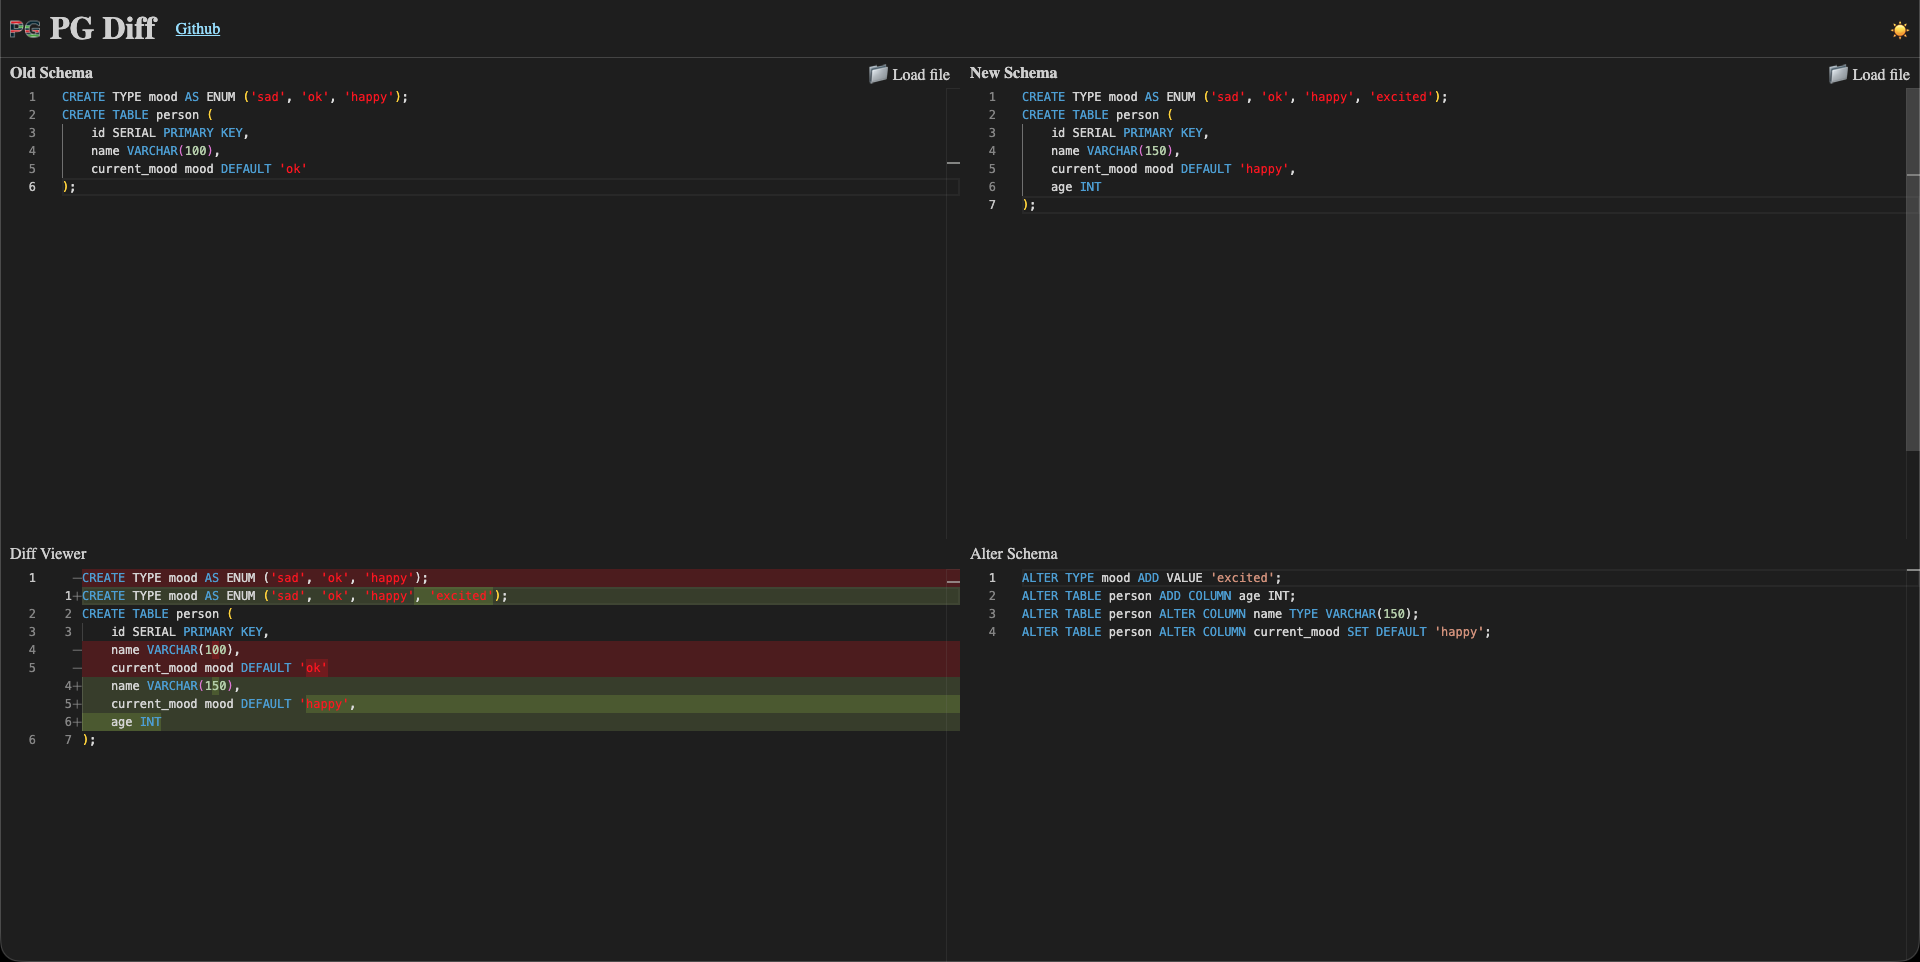
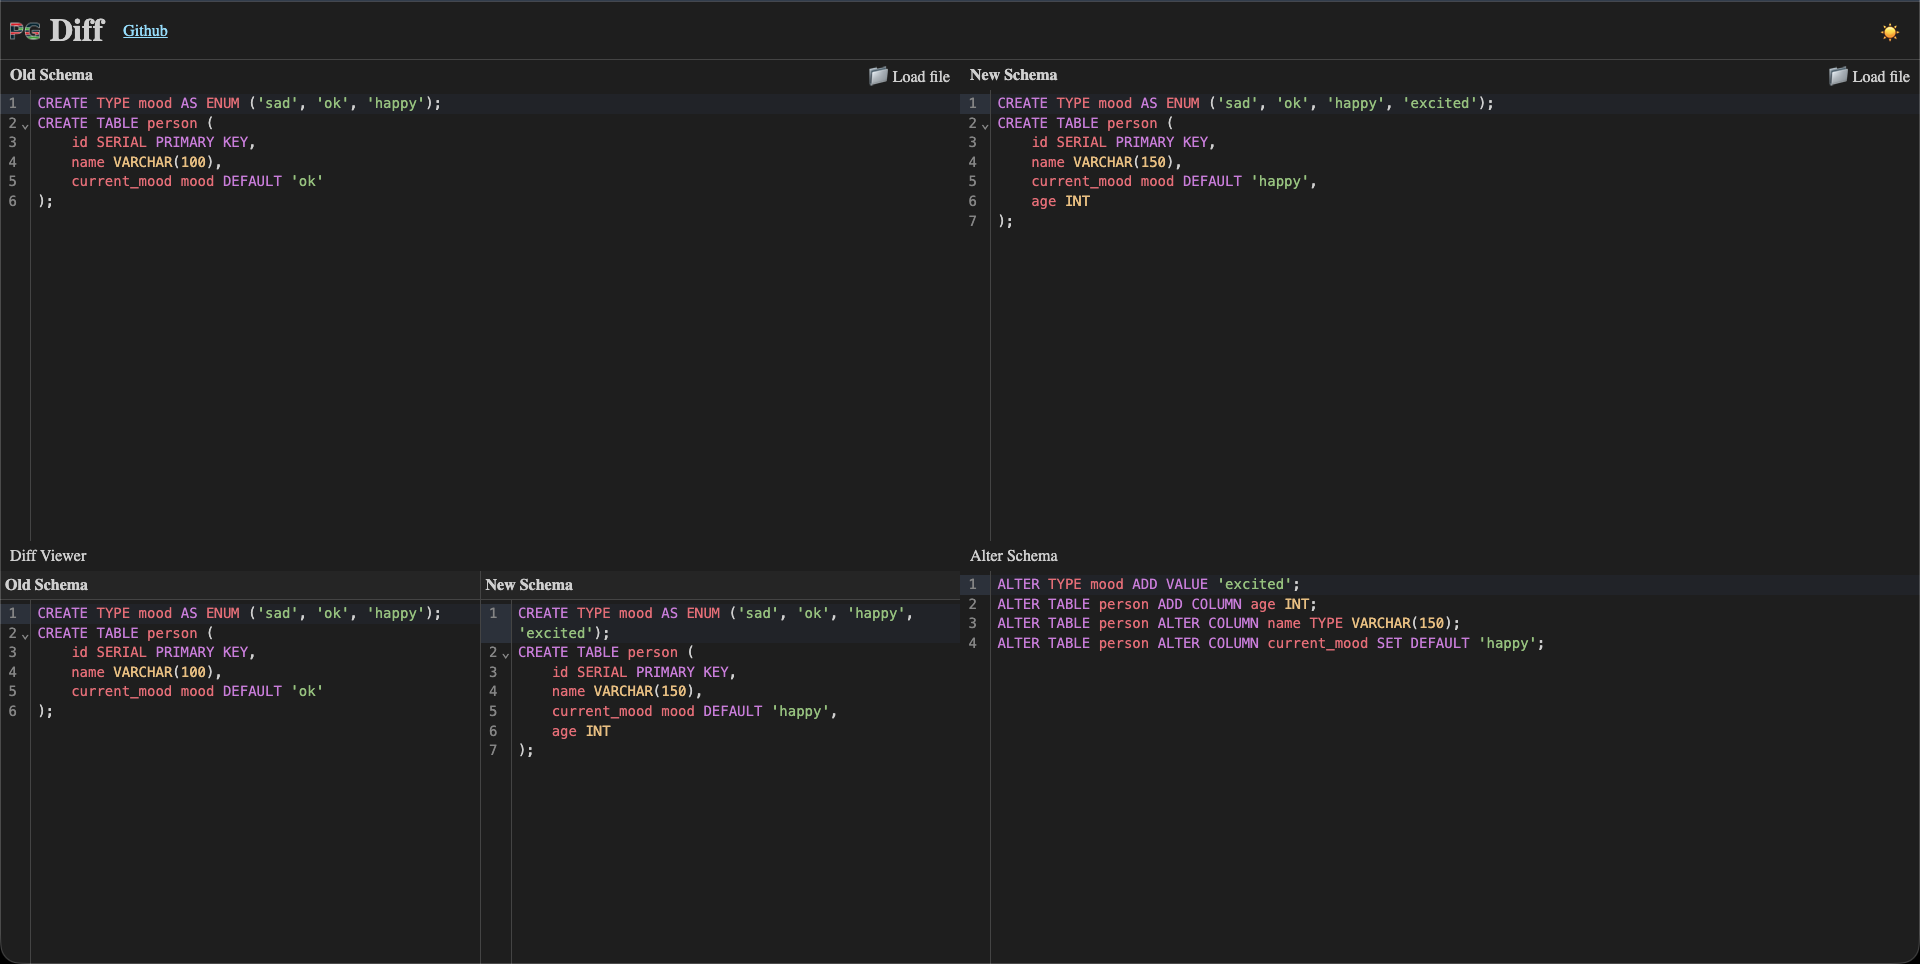
Updated diff viewer

diff --git a/editor.js b/editor.js
@@ -2,6 +2,7 @@ import { EditorView, basicSetup } from 'codemirror';
 import { sql } from '@codemirror/lang-sql';
 import { oneDark } from '@codemirror/theme-one-dark';
 import { ViewPlugin, Decoration } from '@codemirror/view';
+import { MergeView } from '@codemirror/merge';
 
 const exampleOld = `CREATE TYPE mood AS ENUM ('sad', 'ok', 'happy');
 CREATE TABLE person (
@@ -31,6 +32,11 @@ if (savedTheme !== null) {
 }
 
 theme.checked = isDark;
+
+// Sync checkbox with the dark-mode class that was set earlier
+if (isDark && !document.documentElement.classList.contains('dark-mode')) {
+  document.documentElement.classList.add('dark-mode');
+}
 
 // Line decoration for ERROR and CAUTION lines
 const lineDecorations = ViewPlugin.fromClass(class {
@@ -125,44 +131,32 @@ const alterEditor = createEditor(
   true
 );
 
-// Simple diff viewer - just show both schemas side by side
+// Create diff viewer using MergeView
 const diffContainer = document.getElementById('diffViewer');
-const diffBorderColor = isDark ? '#444' : '#ccc';
-const diffBgColor = isDark ? '#252525' : '#f0f0f0';
-const diffTextColor = isDark ? '#cfcfcf' : '#000';
+const extensions = [basicSetup, sql(), EditorView.lineWrapping];
+if (isDark) {
+  extensions.push(oneDark);
+}
 
-diffContainer.innerHTML = `
-  <div style="display: flex; height: 100%; overflow: auto;">
-    <div style="flex: 1; overflow: auto; border-right: 1px solid ${diffBorderColor};">
-      <div class="diff-title" style="padding: 5px; background: ${diffBgColor}; color: ${diffTextColor}; font-weight: bold; border-bottom: 1px solid ${diffBorderColor};">Old Schema</div>
-      <div id="diffOld" style="height: calc(100% - 30px);"></div>
-    </div>
-    <div style="flex: 1; overflow: auto;">
-      <div class="diff-title" style="padding: 5px; background: ${diffBgColor}; color: ${diffTextColor}; font-weight: bold; border-bottom: 1px solid ${diffBorderColor};">New Schema</div>
-      <div id="diffNew" style="height: calc(100% - 30px);"></div>
-    </div>
-  </div>
-`;
-
-const diffOldEditor = createEditor(
-  document.getElementById('diffOld'),
-  localStorage.getItem('oldSchema') || exampleOld,
-  true
-);
-
-const diffNewEditor = createEditor(
-  document.getElementById('diffNew'),
-  localStorage.getItem('newSchema') || exampleNew,
-  true
-);
+const mergeView = new MergeView({
+  a: {
+    doc: localStorage.getItem('oldSchema') || exampleOld,
+    extensions
+  },
+  b: {
+    doc: localStorage.getItem('newSchema') || exampleNew,
+    extensions
+  },
+  parent: diffContainer
+});
 
 // Update listeners
 oldEditor.dom.addEventListener('input', () => {
   const value = oldEditor.state.doc.toString();
   localStorage.setItem('oldSchema', value);
   updateAlterSchema(oldEditor, newEditor, alterEditor);
-  diffOldEditor.dispatch({
-    changes: { from: 0, to: diffOldEditor.state.doc.length, insert: value }
+  mergeView.a.dispatch({
+    changes: { from: 0, to: mergeView.a.state.doc.length, insert: value }
   });
 });
 
@@ -170,8 +164,8 @@ newEditor.dom.addEventListener('input', () => {
   const value = newEditor.state.doc.toString();
   localStorage.setItem('newSchema', value);
   updateAlterSchema(oldEditor, newEditor, alterEditor);
-  diffNewEditor.dispatch({
-    changes: { from: 0, to: diffNewEditor.state.doc.length, insert: value }
+  mergeView.b.dispatch({
+    changes: { from: 0, to: mergeView.b.state.doc.length, insert: value }
   });
 });
 
@@ -186,8 +180,8 @@ document.getElementById('oldSchemaFileInput').addEventListener('change', (event)
     });
     localStorage.setItem('oldSchema', content);
     updateAlterSchema(oldEditor, newEditor, alterEditor);
-    diffOldEditor.dispatch({
-      changes: { from: 0, to: diffOldEditor.state.doc.length, insert: content }
+    mergeView.a.dispatch({
+      changes: { from: 0, to: mergeView.a.state.doc.length, insert: content }
     });
   };
   reader.readAsText(file);
@@ -203,8 +197,8 @@ document.getElementById('newSchemaFileInput').addEventListener('change', (event)
     });
     localStorage.setItem('newSchema', content);
     updateAlterSchema(oldEditor, newEditor, alterEditor);
-    diffNewEditor.dispatch({
-      changes: { from: 0, to: diffNewEditor.state.doc.length, insert: content }
+    mergeView.b.dispatch({
+      changes: { from: 0, to: mergeView.b.state.doc.length, insert: content }
     });
   };
   reader.readAsText(file);
@@ -214,6 +208,14 @@ document.getElementById('newSchemaFileInput').addEventListener('change', (event)
 window.toggleTheme = function () {
   const isDark = theme.checked;
   localStorage.setItem('theme', isDark ? 'dark' : 'light');
+
+  // Toggle dark-mode class
+  if (isDark) {
+    document.documentElement.classList.add('dark-mode');
+  } else {
+    document.documentElement.classList.remove('dark-mode');
+  }
+
   // Reload to apply theme (CodeMirror theme needs to be set at initialization)
   location.reload();
 };

diff --git a/index.html b/index.html
@@ -41,6 +41,20 @@
 
   <!-- Favicon -->
   <link rel="shortcut icon" href="favicon.ico" type="image/x-icon">
+
+  <!-- Prevent flash by setting theme immediately -->
+  <script>
+    // Check theme preference before any rendering
+    const savedTheme = localStorage.getItem('theme');
+    const isDark = savedTheme !== null
+      ? savedTheme === 'dark'
+      : window.matchMedia && window.matchMedia('(prefers-color-scheme: dark)').matches;
+
+    if (isDark) {
+      document.documentElement.classList.add('dark-mode');
+    }
+  </script>
+
   <script type="importmap">
     {
       "imports": {
@@ -48,7 +62,8 @@
         "@codemirror/lang-sql": "https://esm.sh/@codemirror/lang-sql@6.8.0",
         "@codemirror/theme-one-dark": "https://esm.sh/@codemirror/theme-one-dark@6.1.2",
         "@codemirror/view": "https://esm.sh/@codemirror/view@6.34.3",
-        "@codemirror/state": "https://esm.sh/@codemirror/state@6.4.1"
+        "@codemirror/state": "https://esm.sh/@codemirror/state@6.4.1",
+        "@codemirror/merge": "https://esm.sh/@codemirror/merge@6.7.2"
       }
     }
   </script>
@@ -63,11 +78,25 @@
       height: 100%;
       width: 100%;
       overflow: hidden;
+      background-color: #ffffff;
+      transition: background-color 0.2s;
+    }
+
+    /* Dark mode styles applied immediately */
+    .dark-mode body,
+    .dark-mode html {
+      background-color: #1e1e1e;
+      color: #cfcfcf;
     }
 
     #app {
       height: 100%;
       width: 100%;
+    }
+
+    .dark-mode #app {
+      background-color: #1e1e1e;
+      color: #cfcfcf;
     }
 
     .container {
@@ -186,6 +215,26 @@
     }
 
     #dark-theme:checked~#app label[for="dark-theme"]::after {
+      content: '☀';
+    }
+
+    .dark-mode .editor {
+      border-color: #444;
+    }
+
+    .dark-mode header {
+      border-color: #444;
+    }
+
+    .dark-mode label[for="dark-theme"] {
+      color: #cfcfcf;
+    }
+
+    .dark-mode a {
+      color: #9cdcfe;
+    }
+
+    .dark-mode label[for="dark-theme"]::after {
       content: '☀';
     }
 
